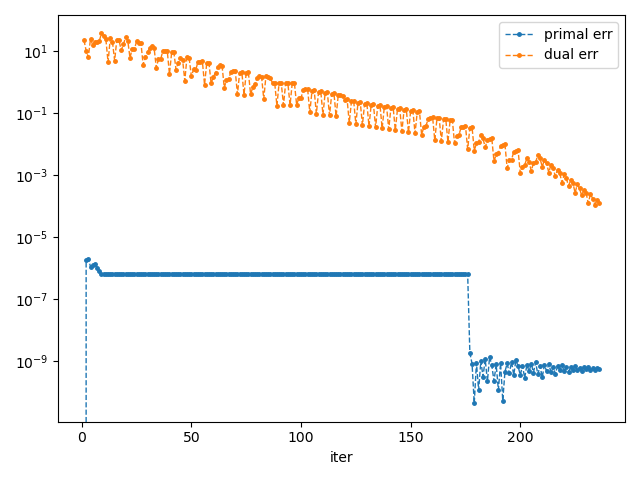
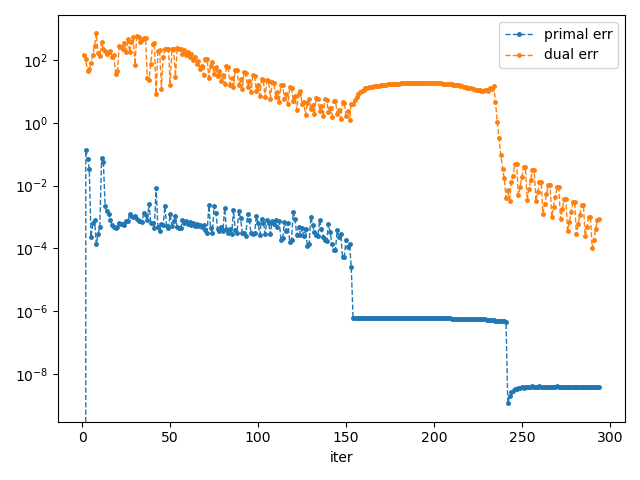
修改了panda机器人初始点违约的情况1

diff --git a/examples/panda_mujoco_test.py b/examples/panda_mujoco_test.py
@@ -115,7 +115,7 @@ vizer.display(q0)
 B_mat = np.eye(nu)
 
 dt = 0.002
-Tf = 4.0  # 保持总时间为1秒
+Tf = 1.0  # 保持总时间为1秒
 nsteps = int(Tf / dt)  # 现在是500步
 
 ode = dynamics.MultibodyFreeFwdDynamics(space, B_mat)
@@ -134,7 +134,7 @@ tool_name = "attachment"  # 从frame列表中看到的最后一个frame
 tool_id = rmodel.getFrameId(tool_name)
 
 print(f"Using tool frame: {tool_name}")
-target_pos = np.array([0.5, 0.4, 0.6])
+target_pos = np.array([-0.5, 0.4, 0.6])
 target_place = pin.SE3.Identity()
 target_place.translation = target_pos
 target_object = pin.GeometryObject(
@@ -157,8 +157,8 @@ wt_x_term = wt_x.copy()
 wt_x_term[:] = 1e-4
 
 ## 特定任务的权重，这里指的是末端执行器到达目标点的任务
-wt_frame_pos = 100.0 * np.eye(frame_fn.nr)
-wt_frame_vel = 100.0 * np.ones(frame_vel_fn.nr)
+wt_frame_pos = 500.0 * np.eye(frame_fn.nr)
+wt_frame_vel = 500.0 * np.ones(frame_vel_fn.nr)
 wt_frame_vel = np.diag(wt_frame_vel)
 
 ## 定义一个代价函数，用于描述机器人的状态和控制
@@ -283,7 +283,7 @@ print("us_opt", us_opt.shape)
 
 mj_sim_env = mujoco_sim_env("franka_emika_panda/scene.xml")
 mj_sim_env.set_initial_state(x0)
-mj_sim_env.run_simulation(q_array, visualize = False)
+mj_sim_env.run_simulation(q_array, visualize = True)
 
 print("目标位置：", target_pos)
 print("期望最终关节角度：", q_array[-1])
